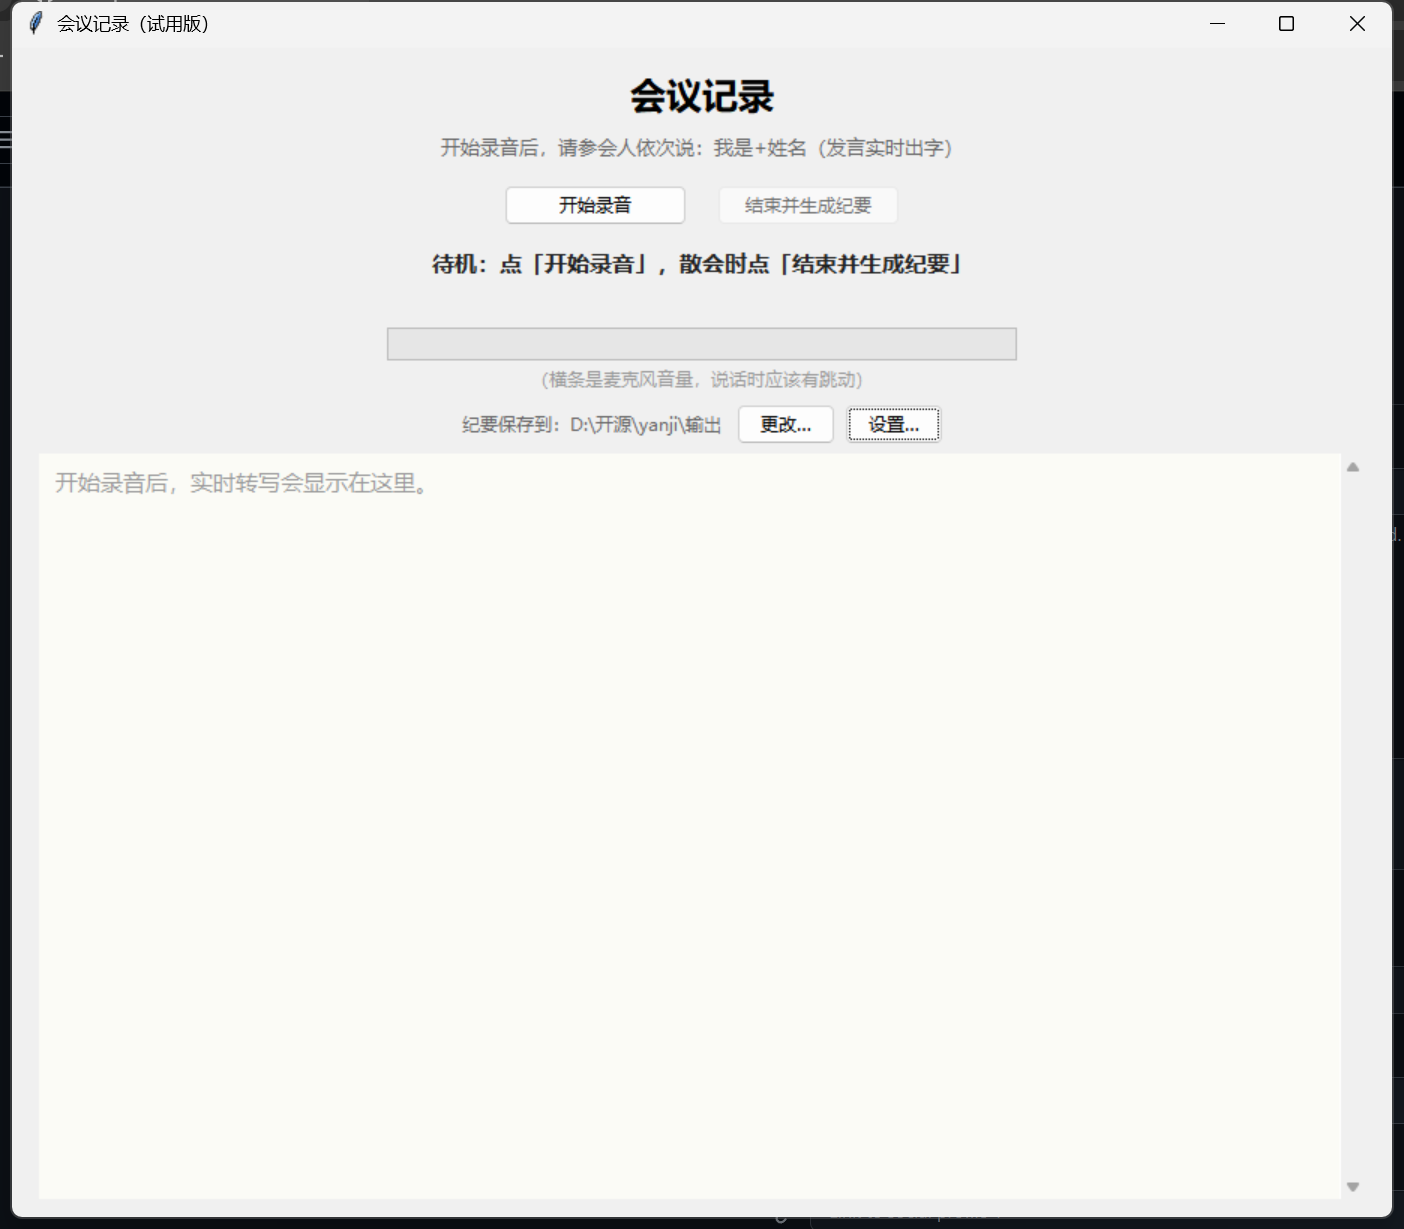
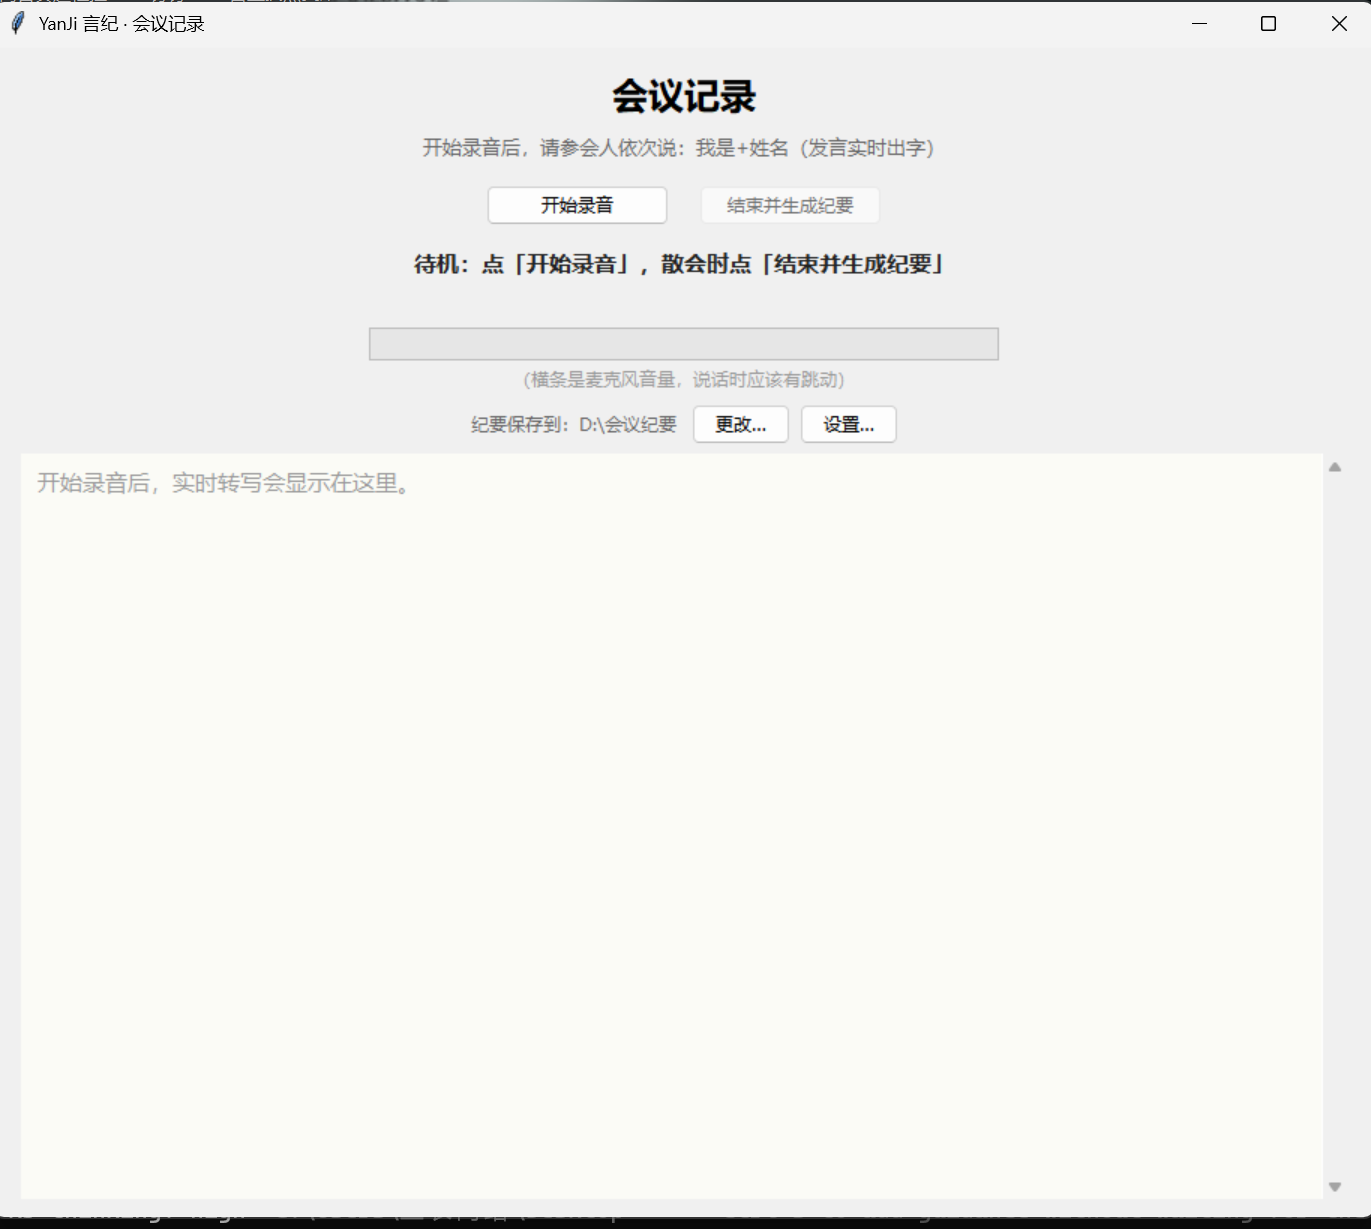
refactor: 窗口标题品牌化(YanJi言纪)+重拍主窗口截图+成本描述去具体数字

diff --git a/会议记录.py b/会议记录.py
@@ -1,5 +1,5 @@
 # -*- coding: utf-8 -*-
-"""会议记录 —— 桌面小工具（试用版）。python 会议记录.py 启动。
+"""会议记录 —— 中文会议记录桌面工具。python 会议记录.py 或 python yanji.py 启动。
 
 主流程：点「开始录音」→ 录音 + 长连接流式识别边录边出字（主区域实时滚动
 「姓名/说话人N：文本」）→ 散会点「结束并生成纪要」→ 已收集的转写稿直接给
@@ -39,7 +39,7 @@ from streaming_asr import MeetingStreamSession
 
 log = logging.getLogger("会议记录")
 
-WINDOW_TITLE = "会议记录（试用版）"
+WINDOW_TITLE = "YanJi 言纪 · 会议记录"
 
 
 class App:
@@ -455,7 +455,7 @@ class App:
 def main():
     setup_logging()
     log.info("=" * 40)
-    log.info("[启动] 会议记录（试用版）")
+    log.info("[启动] YanJi 言纪 · 会议记录")
     root = tk.Tk()
     App(root)
     root.mainloop()

diff --git a/README.md b/README.md
@@ -108,7 +108,7 @@ Compared with local solutions like meetily, we use the cloud in exchange for **C
 
 ## Cost
 
-- Speech recognition: about **¥0.9/hour** (Volcano official bundle is ¥28 for 30 hours; check the console for current pricing)
+- Speech recognition and polishing are both pay-per-use; see the consoles for current pricing
 - Minutes generation (DeepSeek): a few cents per meeting
 - Total: about **¥1 for a one-hour meeting** (both billed by usage)
 

diff --git a/README.zh-CN.md b/README.zh-CN.md
@@ -108,7 +108,7 @@ python pipeline.py 录音/会议录音_20260902_0930.wav
 
 ## 成本
 
-- 语音识别：约 **0.9 元/小时**（火山官方资源包 28 元/30 小时，实际以控制台定价为准）
+- 语音识别与整理均按量计费，具体价格以两个控制台页面为准
 - 纪要生成（DeepSeek）：每次几分钱
 - 合计：**一小时会议约 1 元**（两者均按量付费）
 
